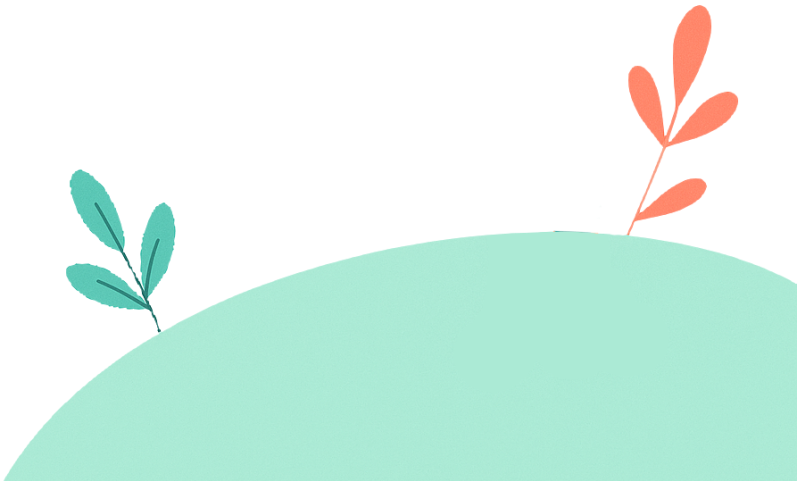
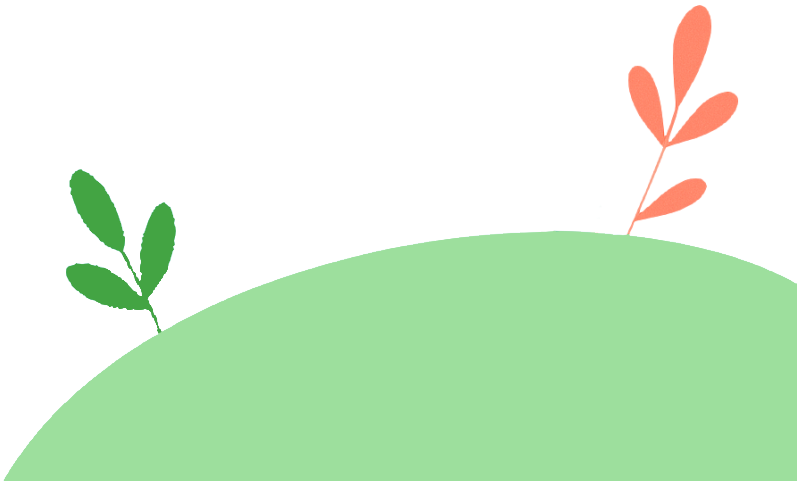
change secondary colors

diff --git a/tailwind.config.js b/tailwind.config.js
@@ -8,7 +8,7 @@ module.exports = {
     extend: {
       colors: {
         white: "#FFFFFF",
-        background: "#E0FDF2",
+        background: "#E6F9E6",
         default: "#1E3D34",
         primary: {
           100: "#FFE8E4",
@@ -22,15 +22,15 @@ module.exports = {
           900: "#A63D2E",
         },
         secondary: {
-          100: "#E6FAF6",
-          200: "#C2F0E5",
-          300: "#9DE6D5",
-          400: "#79DCC4",
-          500: "#54D2B3",
-          600: "#43A991",
-          700: "#33806D",
-          800: "#22574A",
-          900: "#112E27",
+          100: "#E6F9E6",
+          200: "#C2EDC2",
+          300: "#9DDF9D",
+          400: "#79D279",
+          500: "#54C554",
+          600: "#43A443",
+          700: "#338033",
+          800: "#225A22",
+          900: "#113011",
         },
       },
       fontFamily: {

diff --git a/common/constants/images.constant.ts b/common/constants/images.constant.ts
@@ -2,6 +2,7 @@ import { ImageSourcePropType } from "react-native";
 
 const images: Record<string, ImageSourcePropType> = {
   person: require("@/assets/images/person-1.png"),
+  person_2: require("@/assets/images/person-2.png"),
   bg: require("@/assets/images/bg-1.png"),
 };
 
